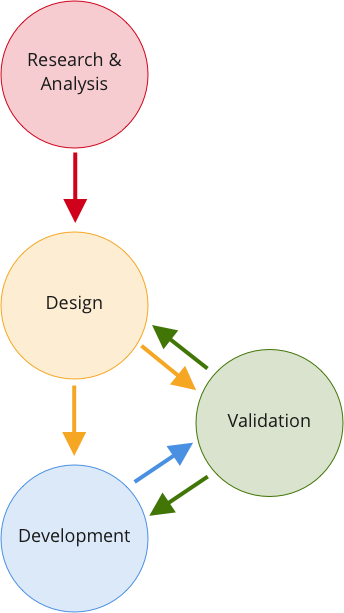
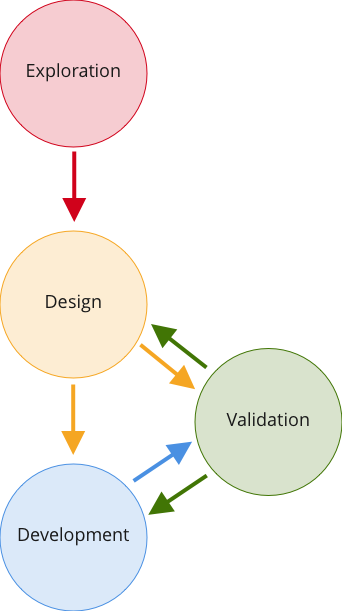
Added Project 7 (Re-purposing the Application)

diff --git a/portfolio/project7.html b/portfolio/project7.html
@@ -1,0 +1,146 @@
+<!DOCTYPE html>
+<html lang="en">
+
+<head>
+   <meta charset=utf-8 />
+   <meta name="viewport" content="width=device-width, initial-scale=1" />
+   <title>Portfolio | Craig Miller</title>
+   <link rel="icon" type="image/x-icon" href="/img/favicon.png" />
+   <link rel="stylesheet" href="/css/luminous-basic.min.css" />
+   <link rel="stylesheet" href="/css/style.css" />
+
+</head>
+
+<body>
+   <div class="header-background"></div>
+   <div class="wrapper">
+      <header>
+         <a href="/" class="brand">Craig Miller<span class="subbrand">UX/UI Designer</span></a>
+         <div>
+            <a href="#" class="mobile-menu">Menu<img src="../img/menu-hover.svg"><img src="../img/menu.svg"></a>
+            <nav role="navigation">
+               <ul>
+                  <li>
+                     <a href="/">welcome</a>
+                  </li>
+                  <li>
+                     <a href="/portfolio">portfolio</a>
+                  </li>
+                  <li>
+                     <a href="/process">process</a>
+                  </li>
+                  <li>
+                     <a href="/resume">résumé</a>
+                  </li>
+                  <li>
+                     <a href="/about">about</a>
+                  </li>
+               </ul>
+            </nav>
+         </div>
+      </header>
+            <section class="Re-purposing the application">
+         <h1 class="content">Re-purposing the application</h1>
+         <aside>
+    <h1>Summary</h1>
+    <p>A legacy application finds new life as it is incorporated as a first-class citizen in a teller application.</p>
+    <h1>Roles</h1>
+    <p>Designed mockups in Sketch, contributed to AGILE user stories, provided UI feedback to Development, worked with 3rd party design company.</p>
+</aside>
+
+<p>For this project, we wanted to incorporate the core functionality of an existing, legacy application within a full-fledged teller system. The legacy solution was originally targeted for a specific audience, payment operations in a commercial environment.
+    Over time, the application evolved into other environments, namely mobile, consumer, and branch back office. While there was a version that could be used by the branch teller, it was not integrated into the other aspects of the teller's applications.
+    In order to provide a complete solution, the core functionality of the legacy application was incorporated as piece within the whole application. My role was to work with Development and Product Management to re-design the check scanning application
+    portion of the teller application.</p>
+
+<h3>Core Functionality</h3>
+
+<p>
+    the first step of the process was understanding the core functionality of the check scanning application. I worked with the Product Manager to learn the business requirements of the branch operations and at the same time deconstruct the existing application
+    to determine which functionality should be incorporated and which functionality could be left behind. By reviewing a bank's implementation of our existing product into their own teller system, we came up with a list of MVP features. I then reviewed
+    our existing application to see what was currently available and what required new design.
+</p>
+
+
+<h3>Modern Implementation</h3>
+
+<p>
+    The new application was to be developed in ReactJS, which provided a number of new UI components we could incorporate into the design. One of these was inline editing. Where the legacy generally required a round-trip to the server to support field validation,
+    the new application could better support inline editing, which is an important aspect of the check scanning application--correcting field recognition errors. This allowed us to reduce the number of screens and allow for a simplified user workflow.
+</p>
+
+
+<h3>Iterative design</h3>
+
+<p>We iterated through the design process several times to review and revise. The first version of the application was little more than a whiteboard sketch of how the application would work.</p>
+
+<figure class="portfolio-item-image lightbox" href="/img/project7/version1.png">
+    <img id="version1" src="/img/project7/version1.png" alt="Version 1">
+    <figcaption class="caption-image">Version 1</figcaption>
+</figure>
+
+<p>Version1 was incorporated by a third-party design company who worked with Product Manager, resulting in the following wireframe:</p>
+
+<figure class="portfolio-item-image lightbox" href="/img/project7/version2.png">
+    <img id="version2" src="/img/project7/version2.png" alt="Version 2">
+    <figcaption class="caption-image">Version 2</figcaption>
+</figure>
+
+<p>At this point, I took ownership of the design. For my first iteration, I tried to keep the existing layout but knew through experience and prior customer feedback that the image needed to be as large as possible. Currently, the screen space allocated
+    for the image was far too narrow for most business sized-cheques. Going with these dimensions, checks would be reduced in height to be almost unreadable. Version 3 was my first update to the mockup.</p>
+
+<figure class="portfolio-item-image lightbox" href="/img/project7/version3.png">
+    <img id="version3" src="/img/project7/version3.png" alt="Version 3">
+    <figcaption class="caption-image">Version 3</figcaption>
+</figure>
+
+<p>
+    The next iteration, Version 4, took into account the requirement of different checks having different fields associated with them, so have one table for all items would require so many rows as to necessitate horizontal scrolling. </p>
+
+<figure class="portfolio-item-image lightbox" href="/img/project7/version4.png">
+    <img id="version4" src="/img/project7/version4.png" alt="Version 4">
+    <figcaption class="caption-image">Version 4</figcaption>
+</figure>
+
+
+<p>
+    A problem with Version 4 was that its layout would provide space for only a few items in the transaction before the user would need to scroll vertically, which would potentially push the image out of view when the user scrolled down to correct a field
+    in the nth row. To resolve these issues, I redesigned the layout of the screen, which placed the light of items to the right of the image, allowed the associated item fields to appear below the image, and increased the size of the image.</p>
+
+<figure class="portfolio-item-image lightbox" href="/img/project7/version5.png">
+    <img id="version5" src="/img/project7/version5.png" alt="Version 5">
+    <figcaption class="caption-image">Version 5</figcaption>
+</figure>
+
+<p>Version 5 became the framework for the screen from which we incorporated additional elements, including screen space for scanner and item errors. During the implementation phase, I worked with developers to provide further explanation to functionality
+    as well as to work through all the issues, corner-cases, and application quirks to ensure that the design would work. In the end the final design looked as follows, Version 6.</p>
+
+<figure class="portfolio-item-image lightbox" href="/img/project7/version6.png">
+    <img id="version6" src="/img/project7/version6.png" alt="Version 6">
+    <figcaption class="caption-image">Version 6</figcaption>
+</figure>
+
+<h3>Results</h3>
+
+<p>Through multiple iterations we were able to take an initial vision and ensure that the design met business requirements, technical constraints, and customer/user requirements.</p>
+      </section>
+      
+
+      
+      <footer>
+         <p>
+            <small>©2019 Craig Miller</small>
+         </p>
+      </footer>
+   </div>
+   <nav role="navigation" class="mobile-menu-container"></nav>
+
+   <a unselectable="on" class="go-to-top go-to-top-hidden"><div class="go-to-top-arrow"></div>Top</a>
+   <script src="/js/scale.fix.js"></script>
+   <script src="/js/siema.min.js"></script>
+   <script src="/js/luminous.min.js"></script>
+   <script src="/js/script.js"></script>
+
+</body>
+
+</html>

diff --git a/process/index.html b/process/index.html
@@ -47,12 +47,12 @@
 </aside>
 
 <p>
-   My process incorporates the typical UX steps of Research, Analysis, Design, Validation and Development. In many cases, I don't have the opportunity to complete all the steps for a given project. For some, I've carried out general research because the opportunity has presented itself, and it's not tied to a specific project. For others, I was brought in to validate a product that has already been developed. Often in Agile development when we're simply adding a feature to a given project, there isn't time or budget to carry out a full user study. Rather, we take what we've learned in "offline" research along with feedback from subject matter experts to guide the design.
+   My process incorporates the typical UX steps of Exploration, Design, Validation and Development. In many cases, I don't have the opportunity to complete all the steps for a given project. For some, I've carried out general research because the opportunity has presented itself, and it's not tied to a specific project. For others, I was brought in to validate a product that has already been developed. Often in Agile development when we're simply adding a feature to a given project, there isn't time or budget to carry out a full user study. Rather, we take what we've learned in "offline" research along with feedback from subject matter experts to guide the design.
 </p>
 
-<h3>Research and Analysis</h3>
+<h3>Exploration</h3>
 <p>
-   In my experience, the research approach depends on the type of project. New or stand-alone projects typically allot enough time during "Sprint 0" to carry out traditional research tasks. Before conducting research I make sure we establish some goals which will direct the collection of data. For example, we had one project where we wanted to replace an existing Windows application with a web application. We already had a solid understanding on what the application needed to do and the user's general workflow. But we heard in the field that the customer was experiencing issues that were causing friction to their operations. So, the focus of the research project was to understand the customer's pain points and ensure that we were addressing them in the new project. 
+   In my experience, the exploration approach depends on the type of project. New or stand-alone projects typically allot enough time during "Sprint 0" to carry out traditional research tasks. Before conducting research I make sure we establish some goals which will direct the collection of data. For example, we had one project where we wanted to replace an existing Windows application with a web application. We already had a solid understanding on what the application needed to do and the user's general workflow. But we heard in the field that the customer was experiencing issues that were causing friction to their operations. So, the focus of the research project was to understand the customer's pain points and ensure that we were addressing them in the new project. 
 </p>
 <p>
    For existing products where features are being enhanced or adding, there is generally not enough time between requirements gathering and implementation. In this situation, I draw from whatever resources are available such as customer-facing service engineers, support team members, and findings from previous research activities. Using these sources of information, I make informed design decisions that can be followed up by validation activities.

diff --git a/portfolio/index.html b/portfolio/index.html
@@ -66,6 +66,10 @@
       <label>Branding the Application</label>
       <p>Providing app branding in the UI and learning iOS and Android styling to create a white label brand.</p>
    </a>
+   <a class="card" href="/portfolio/project7.html">
+      <label>Re-purposing the Application</label>
+      <p>Re-purposing a legacy application in a new environment.</p>
+   </a>
 </div>
 
       </section>
